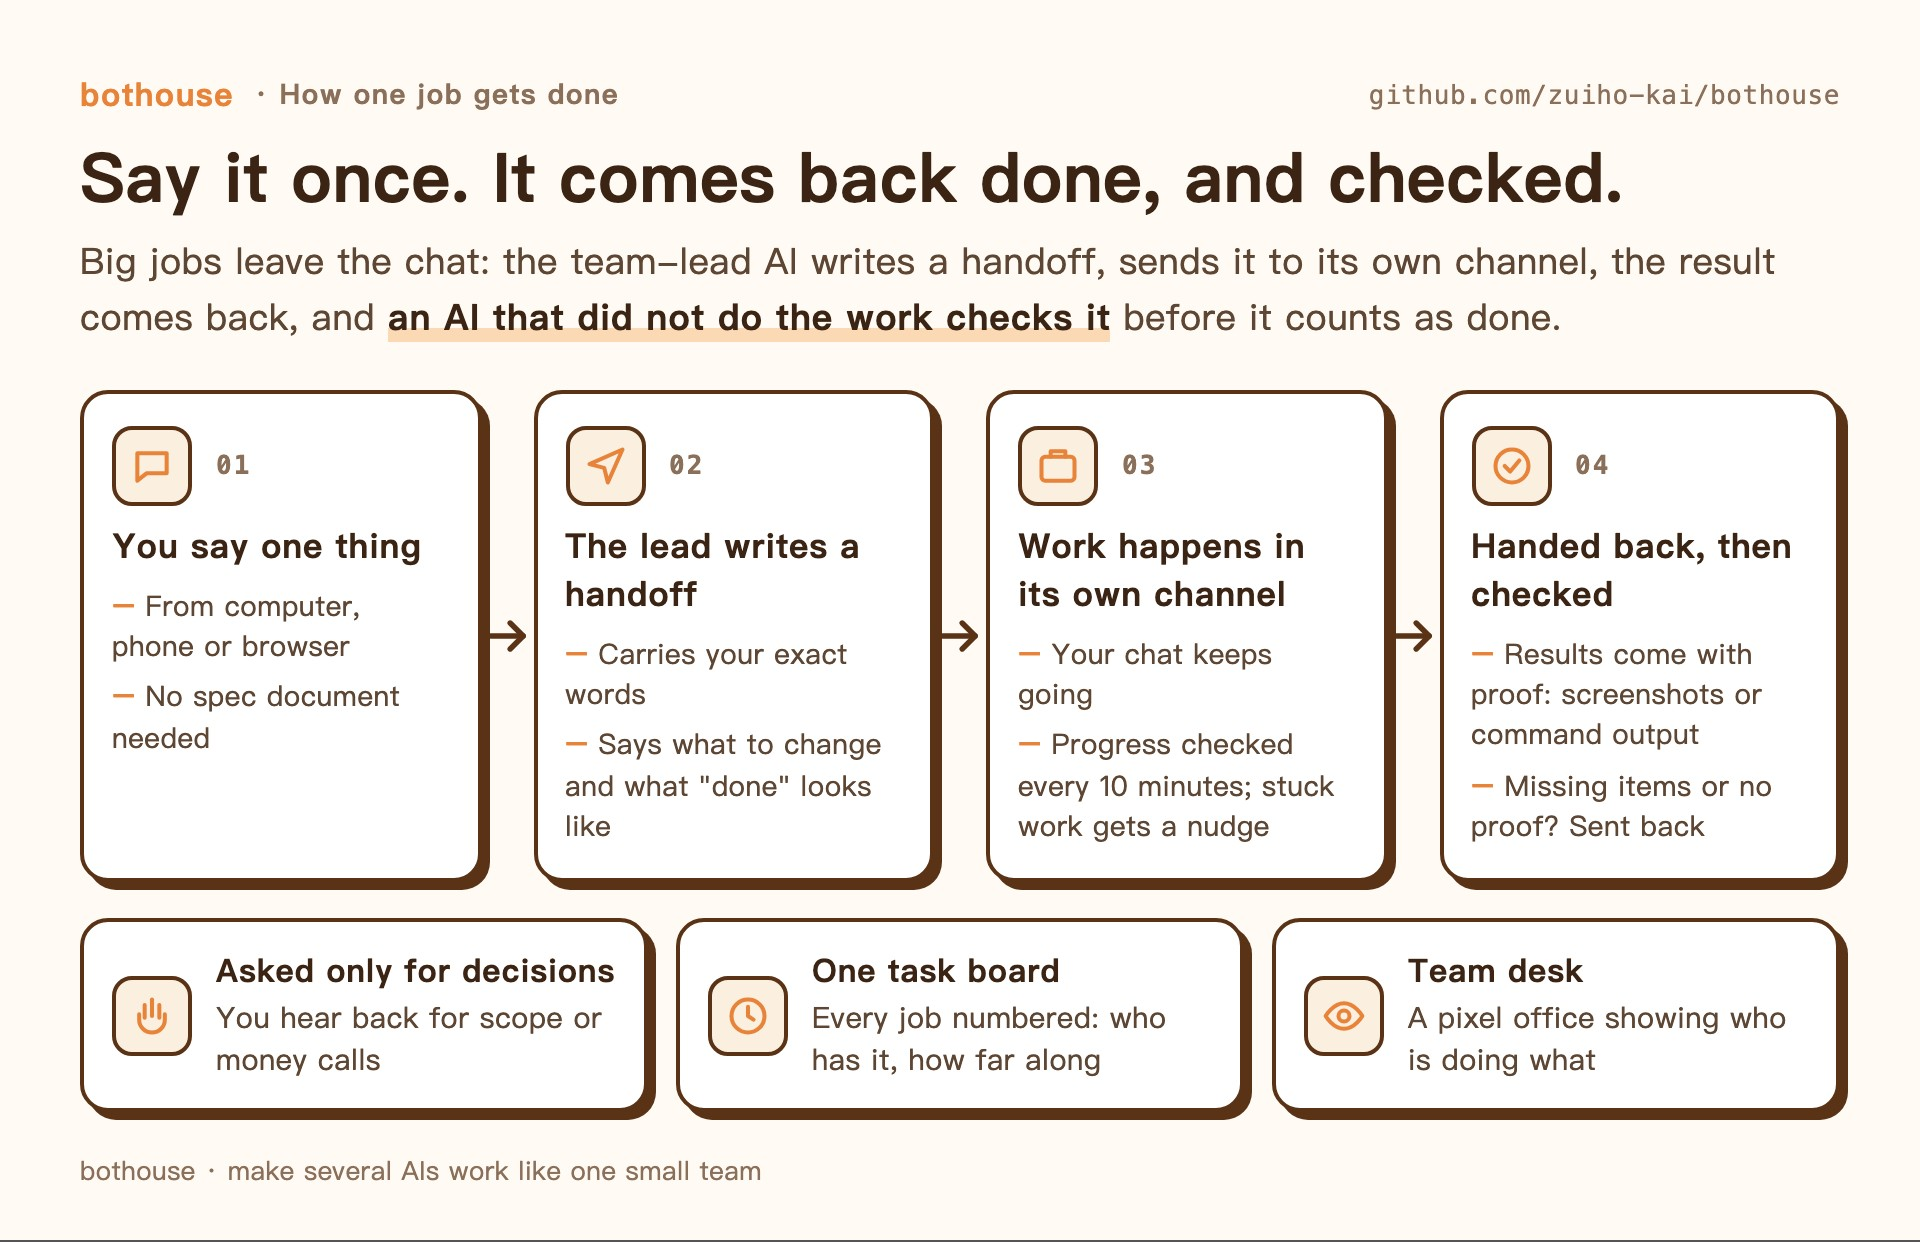
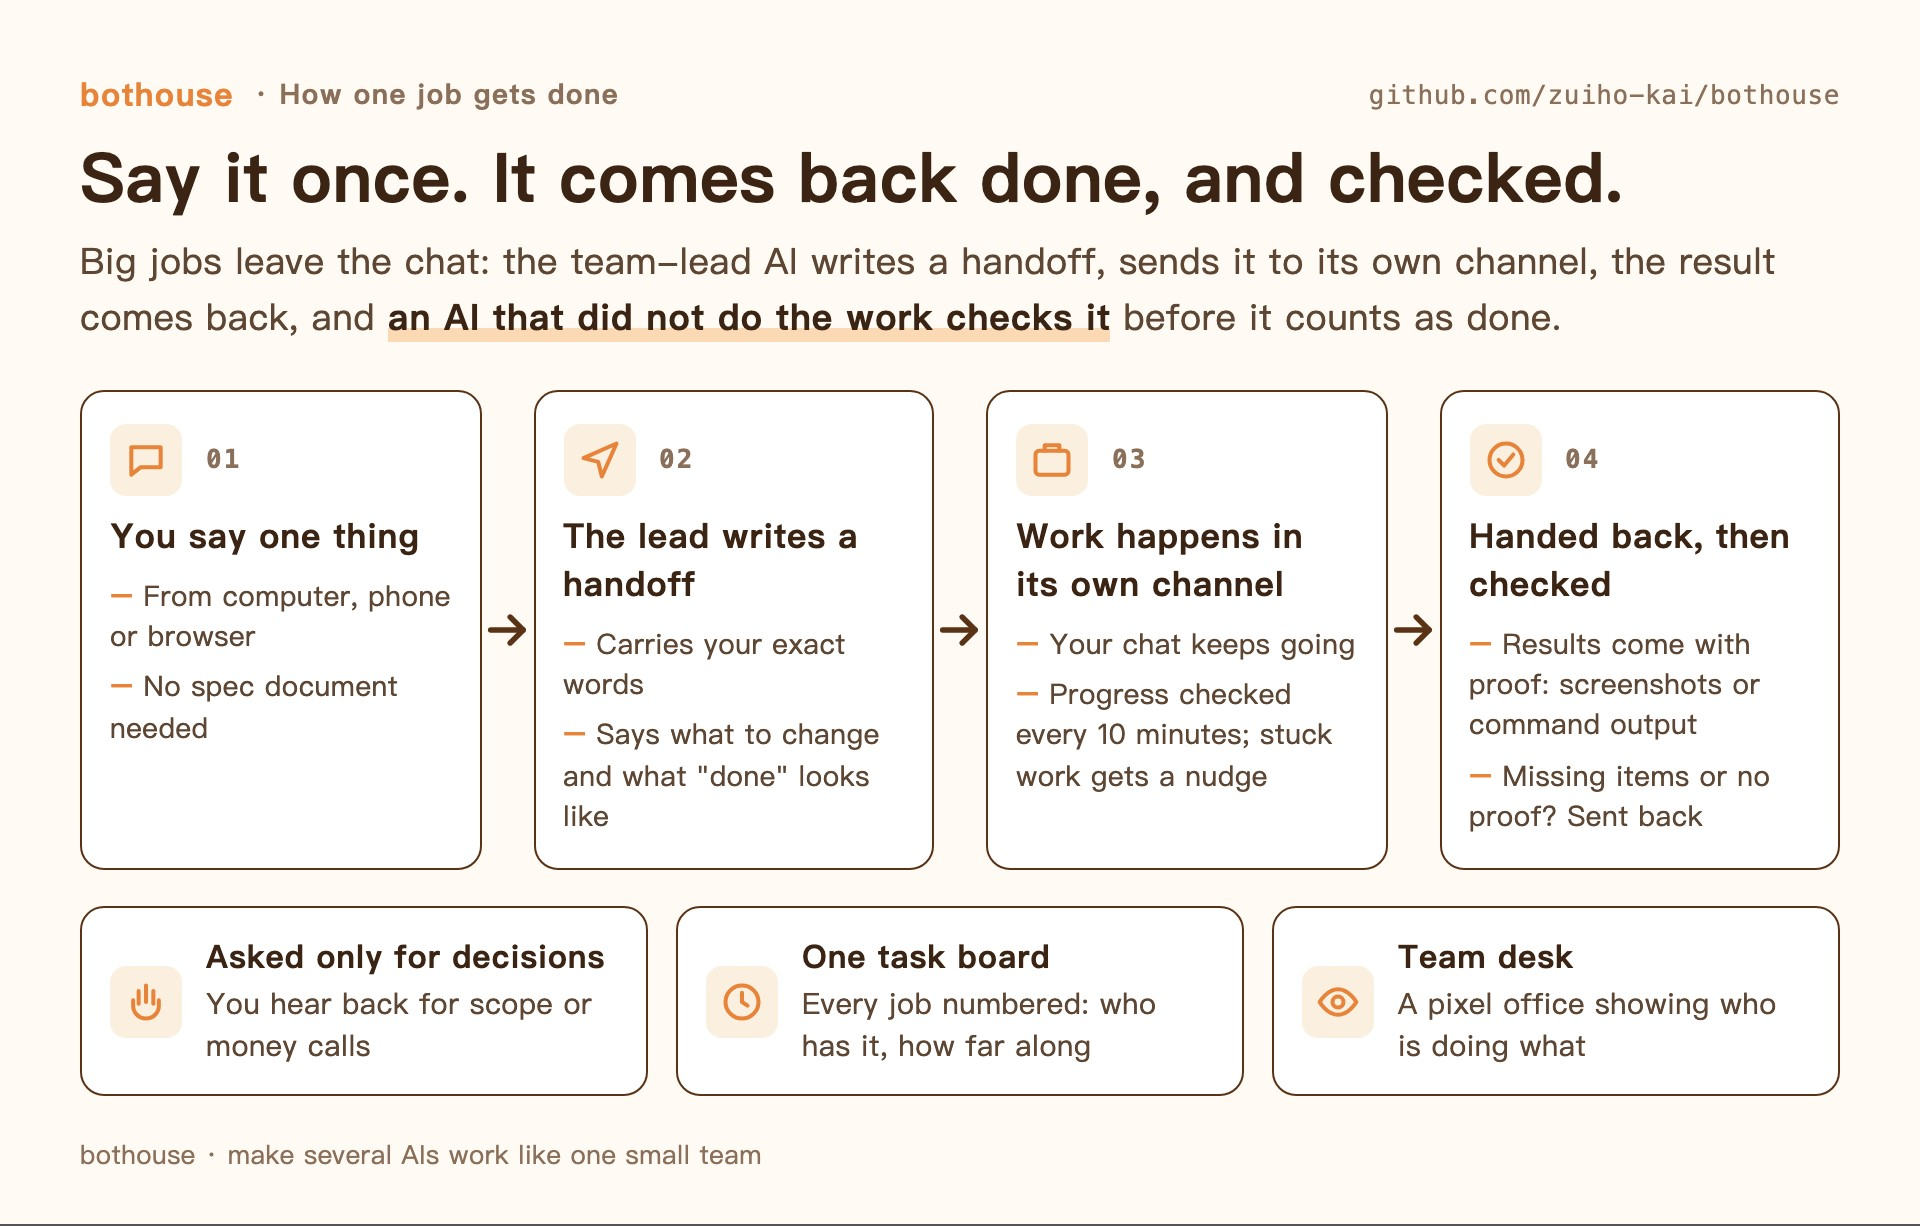
docs(readme): Fable review round: warm dark theme, thin-line architecture, fixes
- night banners, hero, infographics and diagram: neutral warm dark instead of navy/purple
- infographics and diagram: no hard offset shadows; diagram shows direction between layers
- architecture diagram moved to How it works; 'Three ways in' heading -> 'Where to start'
- zh: two bold spans that did not render

diff --git a/README.md b/README.md
@@ -20,7 +20,7 @@
 
 Bring your own AIs too: a team-lead AI splits the work and hands it out; they all share one memory.
 
-[Video](#video) · [Why](#why) · [Three ways in](#usage) · [Install](#install) · [How it works](#how) · [Features](#features) · [Memory](#memory) · [Platforms](#platforms) · [Compare](#compare) · [Roadmap](#roadmap) · [Community](#community) · [Docs](docs/GETTING_STARTED.md) · [Discord task forum](bridge/docs/task-forum.md)
+[Video](#video) · [Why](#why) · [Where to start](#usage) · [Install](#install) · [How it works](#how) · [Features](#features) · [Memory](#memory) · [Platforms](#platforms) · [Compare](#compare) · [Roadmap](#roadmap) · [Community](#community) · [Docs](docs/GETTING_STARTED.md) · [Discord task forum](bridge/docs/task-forum.md)
 
 </div>
 
@@ -56,7 +56,7 @@ I had Claude Code, Codex and DeepSeek open at once across two screens, and getti
   <img src="docs/assets/readme/banner/usage-en-day.svg" width="960" alt="" />
 </picture>
 
-## Three ways in
+## Where to start
 
 <a id="dsh"></a>
 
@@ -108,6 +108,11 @@ Only three ideas to learn:
 - **Shared memory** — every role reads and writes the same Markdown notes, so whoever picks up a job already knows the background. See [Memory](#memory).
 
 More detail — who replies when nobody is named, the nightly review, guardrails, switching the lead by hand — is in [How the team works](docs/readme-details.en.md#how-the-team-works).
+
+<picture>
+  <source media="(prefers-color-scheme: dark)" srcset="docs/assets/readme/architecture-en-night.svg" />
+  <img src="docs/assets/readme/architecture-en-day.svg" width="960" alt="bothouse architecture: on the left, where you chat (Discord, Feishu, QQ, DSH desktop or web); in the middle, bothouse on your own computer: platform adapters, the engine with one session per channel, the team lead and the task board with workspaces, CLI adapters and the memory gate; below, the AI command-line tools you already signed in to (Claude Code, Codex, Gemini CLI, OpenCode, DSH, Antigravity); on the right, shared memory as a Markdown folder with the memory forum, pushed with Git to your private GitHub repo" />
+</picture>
 
 <a id="features"></a>
 
@@ -177,10 +182,6 @@ The team's memory is a plain folder of Markdown files. Each incoming message fir
 
 See [dispatcher and team memory](docs/ccm-and-wiki.md) (Chinese) and the [Wiki galaxy](docs/readme-details.en.md#wiki-galaxy).
 
-<picture>
-  <source media="(prefers-color-scheme: dark)" srcset="docs/assets/readme/architecture-en-night.svg" />
-  <img src="docs/assets/readme/architecture-en-day.svg" width="960" alt="bothouse architecture: on the left, where you chat (Discord, Feishu, QQ, DSH desktop or web); in the middle, bothouse on your own computer: platform adapters, the engine with one session per channel, the team lead and the task board with workspaces, CLI adapters and the memory gate; below, the AI command-line tools you already signed in to (Claude Code, Codex, Gemini CLI, OpenCode, DSH, Antigravity); on the right, shared memory as a Markdown folder with the memory forum, pushed with Git to your private GitHub repo" />
-</picture>
 
 <a id="platforms"></a>
 
